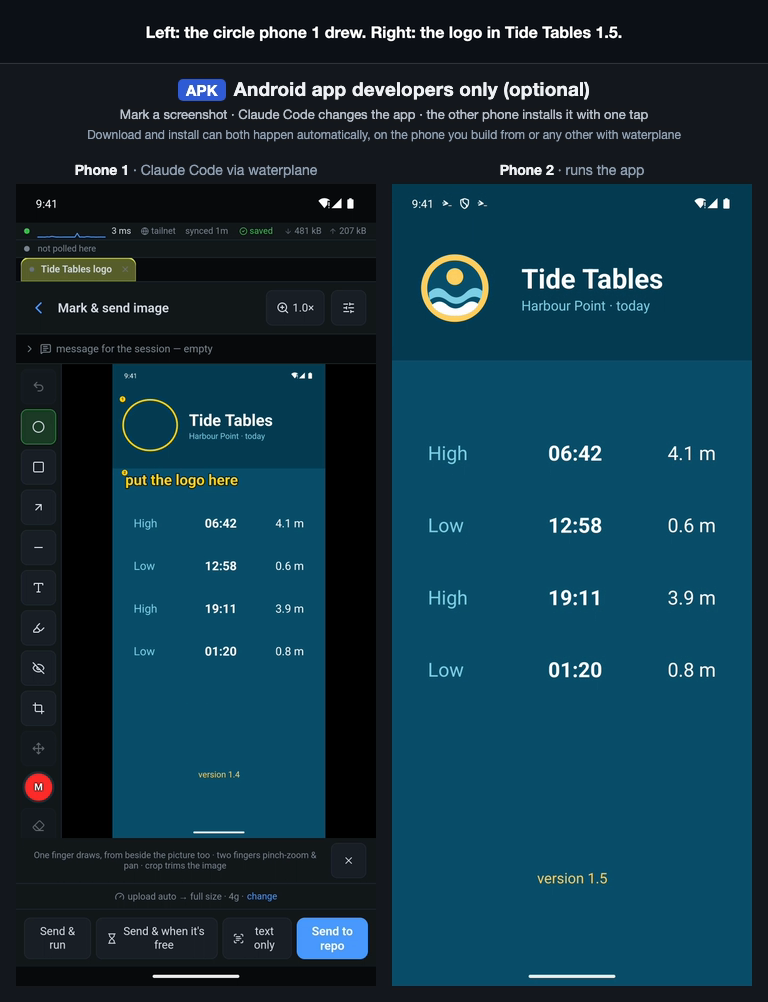
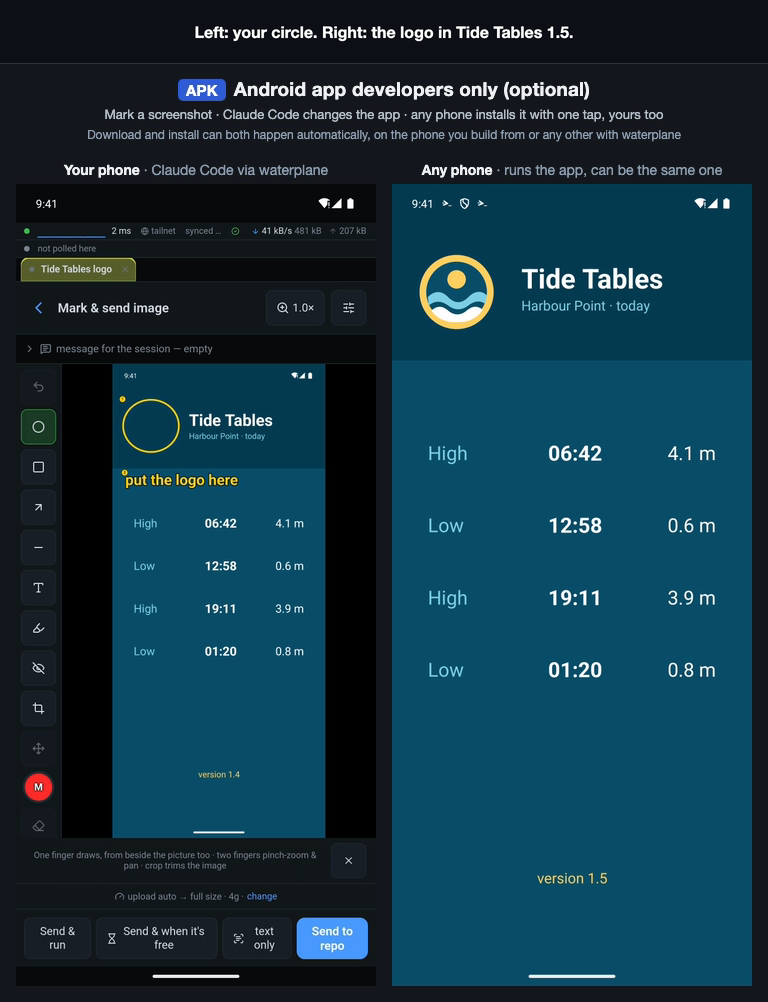
Site rebuilt from the README (waterplane bf0f3403)

diff --git a/index.html b/index.html
@@ -99,8 +99,9 @@
 <section class="row" id="repo-health-so-the-vibe-coding-stays-maintainable">
   <div class="text">
 <h2>Repo health, so the vibe coding stays maintainable</h2>
-<p>Vibe coding drifts into a mess quietly: a <code>CLAUDE.md</code> that only ever grows, a file that passes a thousand lines, the same three files edited on every turn. Each of those makes every later request cost more, because every turn pays to read them again. A repo's health tiles track, commit by commit: the p95 file length, how often the same files are touched again, escape hatches (suppressions such as <code>eslint-disable</code> or <code>as any</code>), untested modules and the <code>CLAUDE.md</code> weight, each with its trend, so you see the drift while it is small and keep the per-request cost flat. The numbers are only readings: nothing changes code on its own.</p>
+<p>Vibe coding drifts into a mess quietly, and a steady number does not mean a healthy repo. Each repo gets one health score out of 100, measured against fixed good values: file length, files reworked right after an edit, unexplained escape hatches (<code>eslint-disable</code>, <code>as any</code>), untested modules and the <code>CLAUDE.md</code> weight. The worst reading caps the score, so one giant file cannot hide behind four quiet readings, and each warning names the file behind it. The trend since the first week comes second. A push arrives when a reading newly turns severe. The film shows the shape of a real app vibe-coded for months with none of this: one file grew to 8,397 lines, and the score says 46. These are readings only: nothing changes code on its own.</p>
   </div>
+  <figure class="phone"><img src="assets/repo-health.gif" width="480" height="1138" loading="lazy" alt="A repo vibe-coded for eight months scores 46 out of 100: one 8,397-line file caps the score, two severe warnings name it, and the trend slides from 100 in February"></figure>
 </section>
 <!-- /readme:health -->
 
@@ -120,7 +121,7 @@
 <p><em>Android app developers only (optional).</em></p>
 <p>Save a build command per repo and run it from the phone without a Claude session, so it spends no tokens; it is the way out when you are rate limited and still need a build. Produced files are detected and downloadable. With the developer build of the Android app, a phone you opt in installs each new APK of your app by itself.</p>
   </div>
-  <figure class="phone"><img src="assets/apk-install.png" width="768" height="1002" loading="lazy" alt="Phone one circles a spot on a screenshot of the app, Claude Code adds a logo there, the build runs, phone two's notifications say the build succeeded and the update is ready to install, one tap on Install updates it, and it opens with the logo in the circled spot"></figure>
+  <figure class="phone"><img src="assets/apk-install.png" width="768" height="1002" loading="lazy" alt="Your phone circles a spot on a screenshot of the app, Claude Code adds a logo there, the build runs, the notifications on the phone with the app (a second one here, or the same one) say the build succeeded and the update is ready to install, one tap on Install updates it, and it opens with the logo in the circled spot"></figure>
 </section>
 <!-- /readme:apk -->
 
